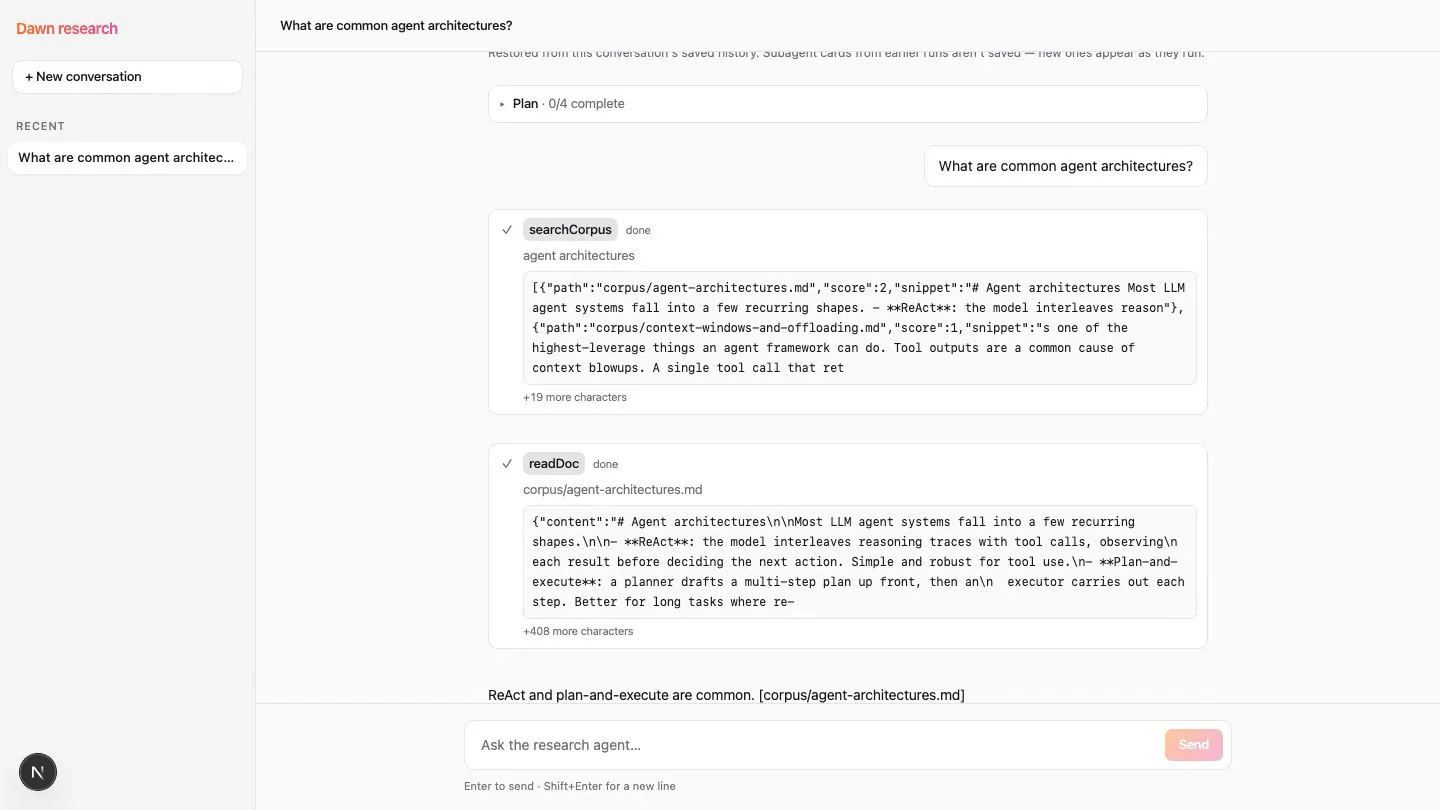
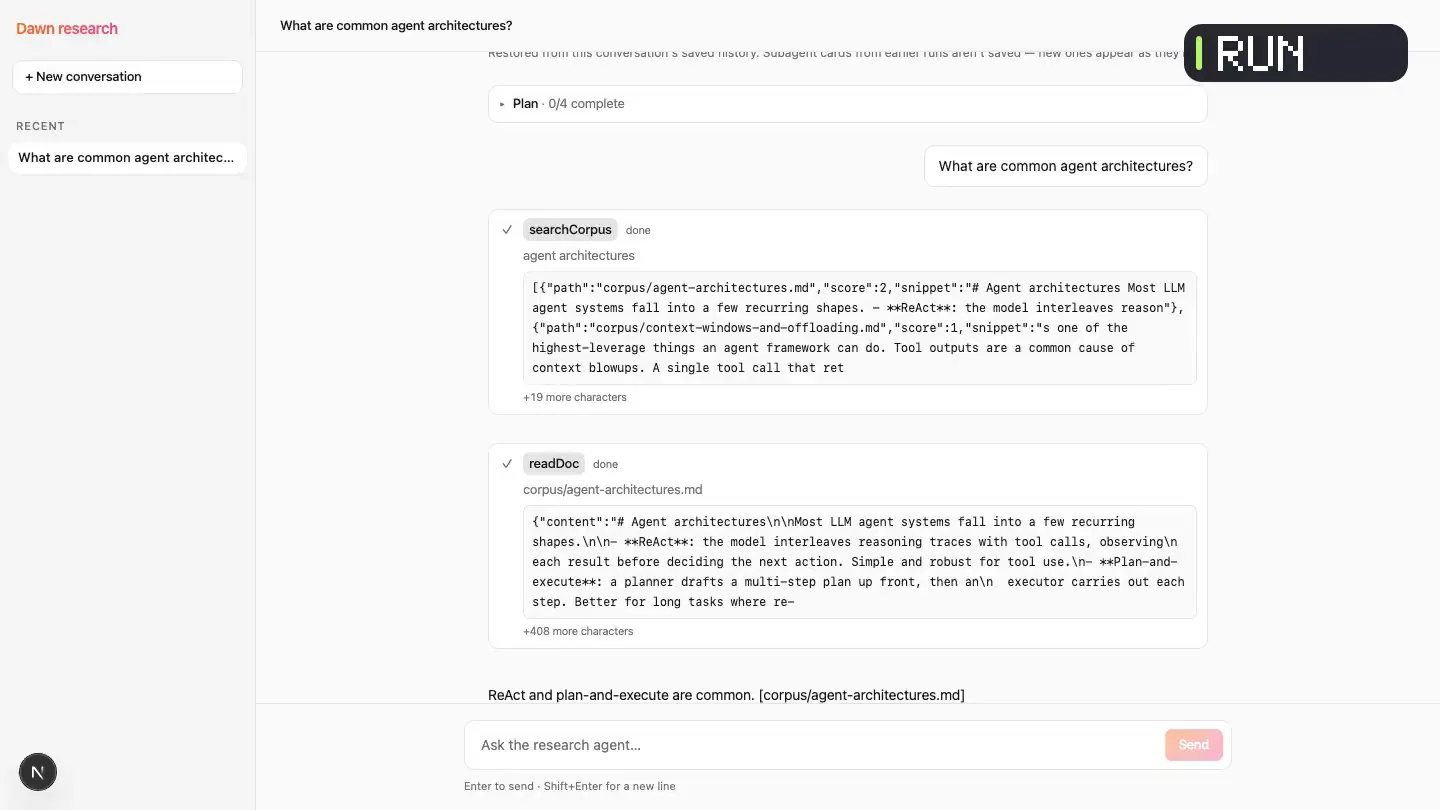
docs(brand): label product loop acts

Changed region(s): [[0.8125, 0.0309, 1.0, 0.1235]]

diff --git a/docs/brand/recording-guide.md b/docs/brand/recording-guide.md
@@ -43,11 +43,18 @@ all other numeric output remain untouched.
 After Playwright finalizes its recording and the capture summary is published,
 ffmpeg creates four timelines:
 
-1. `product-loop` — Author → Test → Workbench → Close, 24 seconds.
-2. `author` — the generated route and shared tool, 9 seconds.
-3. `test` — the real offline passing result, 9 seconds.
-4. `run` — completed Workbench run → browser reload → restored transcript, 10
-   seconds.
+1. `product-loop` — **Author** source → **Prove** test → **Run** Workbench →
+   Close, 24 seconds.
+2. `author` — **Author**, the generated route and shared tool, 9 seconds.
+3. `test` — **Prove**, the real offline passing result, 9 seconds.
+4. `run` — **Run**, completed Workbench run → browser reload → restored
+   transcript, 10 seconds.
+
+Sharp renders the three short label chips as transparent PNGs inside the
+gitignored run artifacts. ffmpeg overlays each chip only on its matching
+timeline segment; this needs neither ffmpeg `drawtext` nor a WebP encoder.
+Posters are extracted from the labeled MP4 output so the fallback and video
+always identify the same act.
 
 The raw scenes are shorter than their delivery windows. The encoder uses only
 frozen-frame holds around actual captured frames to make source, terminal, and
@@ -104,6 +111,7 @@ docs/brand/demo/transcript.md
 Inspect every poster and representative frames from every local MP4/WebM at full
 1440×810 size and at reduced README/mobile widths. Confirm that file paths, the
 `npm test` result, `searchCorpus`, `readDoc`, the cited answer, browser reload,
-and restored transcript correspond exactly to
+restored transcript, and the **Author**, **Prove**, and **Run** labels correspond
+exactly to
 [the transcript](./demo/transcript.md). No remote upload or store mutation is
 part of regeneration or local validation.

diff --git a/docs/brand/demo/transcript.md b/docs/brand/demo/transcript.md
@@ -1,9 +1,9 @@
 # Dawn product-loop media transcript
 
-The flagship and three derivative clips are silent. Their short act labels are
-repeated here so the same proof remains available without motion or audio. The
-footage begins inside an existing generated research workspace; it does not show
-the scaffold command running.
+The flagship and three derivative clips are silent. Their visible short act
+labels — **Author**, **Prove**, and **Run** — are repeated here so the same proof
+remains available without motion or audio. The footage begins inside an existing
+generated research workspace; it does not show the scaffold command running.
 
 ## Product loop (24 seconds)
 
@@ -22,14 +22,14 @@ The editor focuses on the `export default agent({` route descriptor and the
 shared `searchCorpus` tool. The compositor uses frozen-frame holds to keep the
 real captured source legible; the holds do not add product events.
 
-### Test
+### Prove
 
 The terminal compositor runs the generated workspace's canonical `npm test`
 command. The real, narrowly normalized log shows the named deterministic
 research scenario passing without a provider key. A frozen-frame hold leaves
 the passing result on screen long enough to read.
 
-### Workbench
+### Run
 
 The actual generated Dawn Workbench submits “What are common agent
 architectures?” to `/research#agent`. Visible tool activity names the

diff --git a/docs/brand/README.md b/docs/brand/README.md
@@ -56,3 +56,7 @@ names, PASS/FAIL text, commands, counts, ports, and other numeric output.
 Because the raw captured scenes are intentionally brief, encoding uses honest
 frozen-frame holds around those same frames for legibility. It never fabricates
 a source file, test result, tool call, response, reload, or restored state.
+Sharp renders deterministic **Author**, **Prove**, and **Run** label chips into
+the ignored run artifacts; ffmpeg composites them over the matching captured
+segments. Posters are extracted from the labeled MP4 output, so their act and
+footage remain in sync without changing Dawn runtime behavior.
